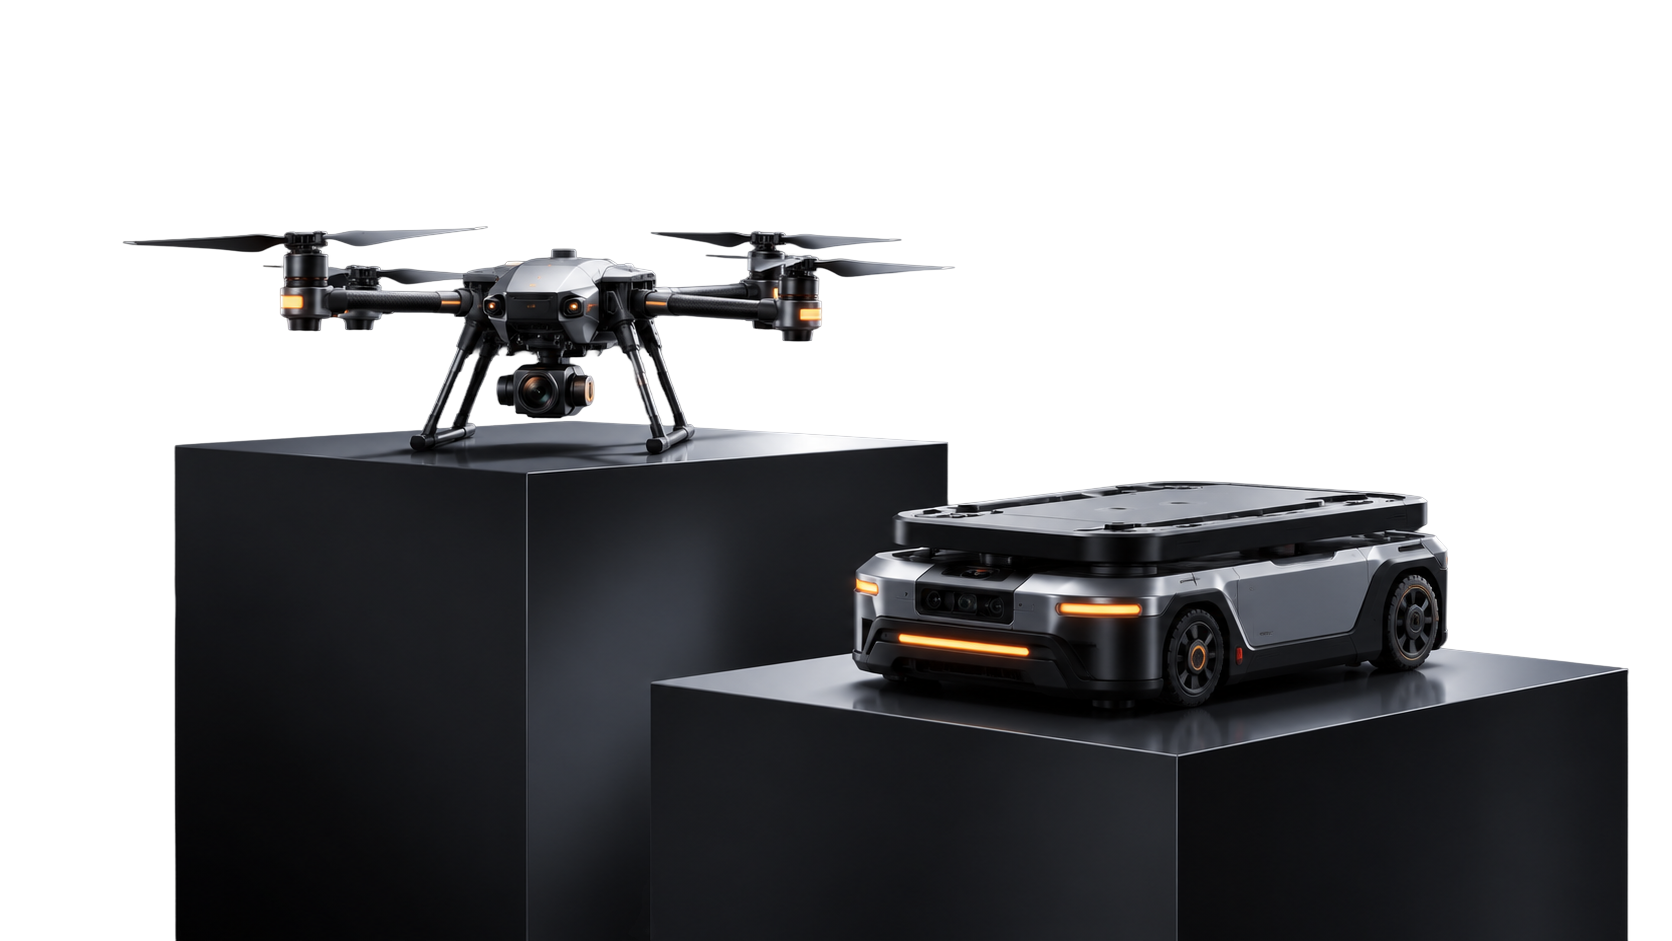
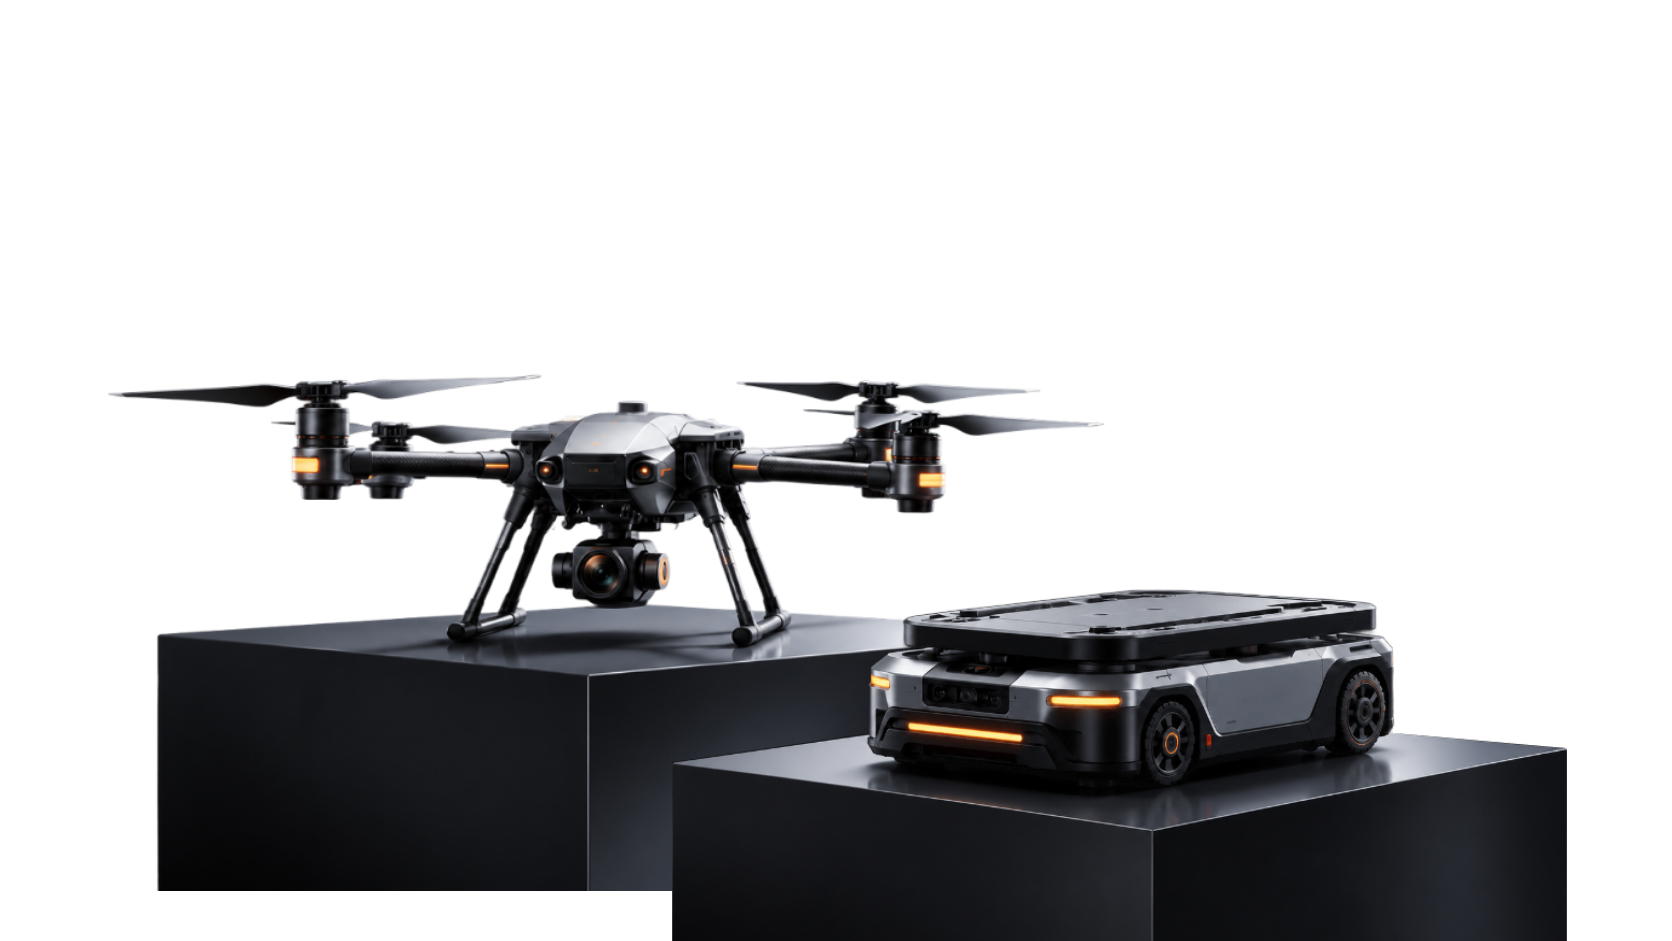
feat: sync latest 5-item navbar and robotics showcase components

Changed region(s): [[0.0622, 0.2465, 0.9952, 1.0], [0.2488, 0.2157, 0.2799, 0.2465]]

diff --git a/src/components/Navbar.jsx b/src/components/Navbar.jsx
@@ -1,7 +1,7 @@
 import React from 'react';
 import cavinLogo from '../assets/cavin_logo.svg';
 
-export default function Navbar({ onNavigate, onOpenContact }) {
+export default function Navbar({ activeSection, onNavigate, onOpenContact }) {
   return (
     <header className="sticky top-0 z-50 w-full bg-[#121418]/90 backdrop-blur-md border-b border-white/[0.04] transition-all duration-300">
       <div className="max-w-[1920px] mx-auto px-6 sm:px-12 lg:px-[160px] h-[88px] lg:h-[100px] flex items-center justify-between">
@@ -14,22 +14,66 @@ export default function Navbar({ onNavigate, onOpenContact }) {
           />
         </a>
 
-        {/* Center Nav Links - Hover-only highlight */}
-        <nav className="flex items-center gap-8 sm:gap-12 lg:gap-[60px]">
+        {/* Center Nav Links */}
+        <nav className="flex items-center gap-5 sm:gap-8 lg:gap-10 xl:gap-12">
           <button
             onClick={() => onNavigate('drone')}
-            className="group relative py-1 font-space text-[16px] lg:text-[18px] leading-[23px] font-normal text-[#A9A9A9] hover:text-[#EC8922] transition-colors duration-200 cursor-pointer"
+            className={`group relative py-1 font-space text-[14px] sm:text-[16px] lg:text-[18px] leading-[23px] font-normal transition-colors duration-200 cursor-pointer whitespace-nowrap ${
+              activeSection === 'drone' ? 'text-[#EC8922]' : 'text-[#A9A9A9] hover:text-[#EC8922]'
+            }`}
           >
             Drone
-            <span className="absolute bottom-0 left-0 w-0 h-[0.6px] bg-[#EC8922] transition-all duration-300 group-hover:w-full" />
+            <span className={`absolute bottom-0 left-0 h-[0.6px] bg-[#EC8922] transition-all duration-300 ${
+              activeSection === 'drone' ? 'w-full' : 'w-0 group-hover:w-full'
+            }`} />
+          </button>
+
+          <button
+            onClick={() => onNavigate('drone-projects')}
+            className={`group relative py-1 font-space text-[14px] sm:text-[16px] lg:text-[18px] leading-[23px] font-normal transition-colors duration-200 cursor-pointer whitespace-nowrap ${
+              activeSection === 'drone-projects' ? 'text-[#EC8922]' : 'text-[#A9A9A9] hover:text-[#EC8922]'
+            }`}
+          >
+            Drone Projects
+            <span className={`absolute bottom-0 left-0 h-[0.6px] bg-[#EC8922] transition-all duration-300 ${
+              activeSection === 'drone-projects' ? 'w-full' : 'w-0 group-hover:w-full'
+            }`} />
           </button>
 
           <button
             onClick={() => onNavigate('amr')}
-            className="group relative py-1 font-space text-[16px] lg:text-[18px] leading-[23px] font-normal text-[#A9A9A9] hover:text-[#EC8922] transition-colors duration-200 cursor-pointer"
+            className={`group relative py-1 font-space text-[14px] sm:text-[16px] lg:text-[18px] leading-[23px] font-normal transition-colors duration-200 cursor-pointer whitespace-nowrap ${
+              activeSection === 'amr' ? 'text-[#EC8922]' : 'text-[#A9A9A9] hover:text-[#EC8922]'
+            }`}
           >
             AMR
-            <span className="absolute bottom-0 left-0 w-0 h-[0.6px] bg-[#EC8922] transition-all duration-300 group-hover:w-full" />
+            <span className={`absolute bottom-0 left-0 h-[0.6px] bg-[#EC8922] transition-all duration-300 ${
+              activeSection === 'amr' ? 'w-full' : 'w-0 group-hover:w-full'
+            }`} />
+          </button>
+
+          <button
+            onClick={() => onNavigate('amr-projects')}
+            className={`group relative py-1 font-space text-[14px] sm:text-[16px] lg:text-[18px] leading-[23px] font-normal transition-colors duration-200 cursor-pointer whitespace-nowrap ${
+              activeSection === 'amr-projects' ? 'text-[#EC8922]' : 'text-[#A9A9A9] hover:text-[#EC8922]'
+            }`}
+          >
+            AMR Projects
+            <span className={`absolute bottom-0 left-0 h-[0.6px] bg-[#EC8922] transition-all duration-300 ${
+              activeSection === 'amr-projects' ? 'w-full' : 'w-0 group-hover:w-full'
+            }`} />
+          </button>
+
+          <button
+            onClick={() => onNavigate('footer')}
+            className={`group relative py-1 font-space text-[14px] sm:text-[16px] lg:text-[18px] leading-[23px] font-normal transition-colors duration-200 cursor-pointer whitespace-nowrap ${
+              activeSection === 'footer' ? 'text-[#EC8922]' : 'text-[#A9A9A9] hover:text-[#EC8922]'
+            }`}
+          >
+            Footer
+            <span className={`absolute bottom-0 left-0 h-[0.6px] bg-[#EC8922] transition-all duration-300 ${
+              activeSection === 'footer' ? 'w-full' : 'w-0 group-hover:w-full'
+            }`} />
           </button>
         </nav>
 

diff --git a/src/components/Hero.jsx b/src/components/Hero.jsx
@@ -1,5 +1,6 @@
 import React from 'react';
-import heroPedestal from '../assets/hero_pedestal.png';
+import heroDrone from '../assets/hero_drone.png';
+import heroAmr from '../assets/hero_amr.png';
 
 export default function Hero() {
   return (
@@ -26,21 +27,37 @@ export default function Hero() {
 
         {/* Hero Visual Showcase + Mission Statement Grid - Anchored Flush to Bottom */}
         <div className="relative grid grid-cols-1 lg:grid-cols-12 gap-6 xl:gap-10 items-end mt-2">
-          {/* 3D Pedestal Drone & AMR Image - Enlarged with bottom offset to eliminate gap when floating */}
+          {/* 3D Pedestal Drone & AMR Interactive Showcase */}
           <div className="lg:col-span-8 relative flex justify-center lg:justify-start items-end self-end">
-            <div className="relative w-full max-w-6xl xl:max-w-[1140px] group flex items-end animate-float -mb-6 lg:-mb-8 origin-bottom">
-              <img
-                src={heroPedestal}
-                alt="Autonomous Drone and AMR on high-tech pedestals"
-                className="w-full h-auto object-contain object-bottom drop-shadow-[0_20px_50px_rgba(0,0,0,0.9)] transition-transform duration-700 hover:scale-[1.02] block scale-[1.05] lg:scale-[1.08] origin-bottom"
-              />
+            <div className="relative w-full max-w-6xl xl:max-w-[1140px] aspect-[1672/1020] -mb-8 lg:-mb-12 origin-bottom scale-[1.05] lg:scale-[1.08] pointer-events-none">
+              {/* Drone Layer (Floats First with extended pedestal) */}
+              <div 
+                className="absolute inset-0 w-full h-full z-10 origin-bottom animate-float-drone pointer-events-auto transition-transform duration-700 hover:scale-[1.02]"
+              >
+                <img
+                  src={heroDrone}
+                  alt="Autonomous Drone on pedestal"
+                  className="w-full h-full object-contain object-bottom drop-shadow-[0_20px_50px_rgba(0,0,0,0.9)] block select-none"
+                />
+              </div>
+
+              {/* AMR Layer (Floats Second with extended pedestal) */}
+              <div 
+                className="absolute inset-0 w-full h-full z-20 origin-bottom animate-float-amr pointer-events-auto transition-transform duration-700 hover:scale-[1.02]"
+              >
+                <img
+                  src={heroAmr}
+                  alt="Autonomous Mobile Robot (AMR) on pedestal"
+                  className="w-full h-full object-contain object-bottom drop-shadow-[0_20px_50px_rgba(0,0,0,0.9)] block select-none"
+                />
+              </div>
             </div>
           </div>
 
           {/* Right Column Mission Statement (26:33) - Space Grotesk Regular 20px, line-height 28px, color #A9A9A9, max-width 556px, top-aligned with Drone */}
           <div className="lg:col-span-4 flex flex-col justify-start items-end self-start pt-4 sm:pt-6 lg:pt-8 xl:pt-10 xl:pl-4">
             <p className="font-space font-normal text-right text-[16px] sm:text-[18px] xl:text-[20px] leading-[26px] xl:leading-[28px] text-[#A9A9A9] max-w-[556px]">
-              We build intelligent drones and autonomous mobile robots that secure, survey, and support your most critical operations, putting real-time intelligence in front of leadership 24/7
+              We tinker intelligent drones and autonomous mobile robots that secure, survey, and support your most critical operations, putting real-time intelligence in front of leadership 24/7
             </p>
           </div>
         </div>

diff --git a/src/components/DroneOutcomes.jsx b/src/components/DroneOutcomes.jsx
@@ -1,8 +1,8 @@
 import React from 'react';
 import droneOutcomeDesign from '../assets/drone_outcome_design.jpg';
-import droneOutcomeLqr from '../assets/drone_outcome_lqr.png';
+import droneOutcomeAds from '../assets/drone_outcome_ads.png';
 import droneOutcomeTethered from '../assets/drone_outcome_tethered.jpg';
-import droneOutcomeTuning from '../assets/drone_outcome_tuning.png';
+import droneOutcomeLqr from '../assets/drone_outcome_lqr.png';
 import droneOutcomeLidar from '../assets/drone_outcome_lidar.jpg';
 import droneOutcomeFirefighting from '../assets/drone_outcome_firefighting.png';
 
@@ -19,10 +19,10 @@ export default function DroneOutcomes() {
       ],
     },
     {
-      title: 'LQR',
-      image: droneOutcomeLqr,
+      title: 'ADS DISPLAY DRONE',
+      image: droneOutcomeAds,
       imageFit: 'object-cover',
-      description: 'LQR control enables drones to maintain precise, stable flight by continuously optimizing movement, reducing disturbances, and improving responsiveness for safer, smoother, and more reliable autonomous operations.',
+      description: 'Advertising display drones transform the sky into a dynamic digital canvas, delivering high-visibility LED campaigns, branded messages, and immersive aerial experiences that capture attention across large audiences.',
       badges: [
         { label: 'STATUS', value: 'Research Stage', highlight: true },
         { label: 'PHASE', value: 'Phase 2', highlight: false },
@@ -40,8 +40,9 @@ export default function DroneOutcomes() {
       ],
     },
     {
-      title: 'DRONE TUNNING',
-      image: droneOutcomeTuning,
+      title: 'DRONE TUNING',
+      image: droneOutcomeLqr,
+      imageFit: 'object-cover',
       description: 'Drone tuning optimizes flight controllers, motors, sensors, and response parameters to improve stability, precision, responsiveness, and efficiency, ensuring smoother performance across different payloads, environments, and mission requirements.',
       badges: [
         { label: 'STATUS', value: 'Research Stage', highlight: true },
@@ -72,7 +73,7 @@ export default function DroneOutcomes() {
   ];
 
   return (
-    <section className="relative w-full py-16 sm:py-20 lg:py-[90px] overflow-hidden">
+    <section id="drone-projects" className="relative w-full py-16 sm:py-20 lg:py-[90px] overflow-hidden">
       <div className="max-w-[1920px] mx-auto px-6 sm:px-12 lg:px-[160px]">
         {/* Section Header Grid */}
         <div className="flex flex-col lg:flex-row lg:items-end justify-between gap-6 mb-16">

diff --git a/src/components/AMRScope.jsx b/src/components/AMRScope.jsx
@@ -13,7 +13,7 @@ export default function AMRScope() {
       heading: 'Site Surveillance',
       description: 'Self-navigating robots patrol floors, warehouses, and restricted zones - spotting unattended objects, badge anomalies, and after-hours movement.',
       callout: 'Every alert reaches your team with live video, before an incident becomes a loss.',
-      image: amrScopeBg,
+      image: amrScopeIndoorAssistant,
       imagePosition: 'object-cover object-center',
     },
     {
@@ -22,7 +22,7 @@ export default function AMRScope() {
       heading: 'Indoor AI Assistance',
       description: 'A mobile AI companion that welcomes visitors, manages check-in, guides guests, and answers facility questions instantly.',
       callout: 'Professional, multilingual assistance available every hour of every day.',
-      image: amrScopeIndoorAssistant,
+      image: amrScopeBg,
       imagePosition: 'object-cover object-center',
     },
   ];

diff --git a/src/index.css b/src/index.css
@@ -82,8 +82,8 @@ body {
   box-shadow: 0 0 30px rgba(236, 137, 34, 0.08);
 }
 
-/* Floating animation for Hero image */
-@keyframes float {
+/* Floating animation for Hero Drone & AMR (Silky smooth harmonic wave: Drone floats first, AMR rises as Drone begins descent) */
+@keyframes float-smooth {
   0%, 100% {
     transform: translateY(0px);
   }
@@ -92,9 +92,19 @@ body {
   }
 }
 
-.animate-float {
-  animation: float 5s ease-in-out infinite;
+.animate-float-drone {
+  animation: float-smooth 5s ease-in-out infinite;
   will-change: transform;
+  backface-visibility: hidden;
+  -webkit-backface-visibility: hidden;
+}
+
+.animate-float-amr {
+  animation: float-smooth 5s ease-in-out infinite;
+  animation-delay: 2.5s;
+  will-change: transform;
+  backface-visibility: hidden;
+  -webkit-backface-visibility: hidden;
 }
 
 /* Revolving border stroke animation */

diff --git a/src/App.jsx b/src/App.jsx
@@ -28,13 +28,17 @@ export default function App() {
   // Update active navbar indicator on scroll
   useEffect(() => {
     const handleScroll = () => {
-      const amrEl = document.getElementById('amr');
-      if (amrEl) {
-        const rect = amrEl.getBoundingClientRect();
-        if (rect.top <= 200) {
-          setActiveSection('amr');
-        } else {
-          setActiveSection('drone');
+      const sections = ['drone', 'drone-projects', 'amr', 'amr-projects', 'footer'];
+      const scrollPos = window.pageYOffset + 250;
+
+      for (let i = sections.length - 1; i >= 0; i--) {
+        const el = document.getElementById(sections[i]);
+        if (el) {
+          const top = el.offsetTop;
+          if (scrollPos >= top) {
+            setActiveSection(sections[i]);
+            break;
+          }
         }
       }
     };

diff --git a/src/components/Footer.jsx b/src/components/Footer.jsx
@@ -3,7 +3,7 @@ import cavinLogo from '../assets/cavin_logo.svg';
 
 export default function Footer() {
   return (
-    <footer className="relative w-full border-t border-white/[0.04] bg-[#0D0E10] overflow-hidden">
+    <footer id="footer" className="relative w-full border-t border-white/[0.04] bg-[#0D0E10] overflow-hidden">
       {/* Top Center Glow Ellipse (26:366) - w: 780px, h: 11px, fill: #D9D9D9, blur(140px) */}
       <div className="absolute top-0 left-1/2 -translate-x-1/2 w-[780px] h-[11px] bg-[#D9D9D9] blur-[140px] pointer-events-none opacity-40" />
 

diff --git a/src/components/AutomationModal.jsx b/src/components/AutomationModal.jsx
@@ -194,7 +194,7 @@ export default function AutomationModal({ isOpen, onClose }) {
               {/* Header Title */}
               <div>
                 <h2 id="automation-modal-title" className="font-orbitron font-bold text-2xl text-white tracking-wide">
-                  Let's Talk Automation
+                  Let's Talk
                 </h2>
                 <p className="font-space text-xs sm:text-sm text-[#7A7A85] mt-1 font-normal">
                   Connect with our robotics engineers to engineer your deployment.

diff --git a/src/components/AMROutcomes.jsx b/src/components/AMROutcomes.jsx
@@ -71,7 +71,7 @@ export default function AMROutcomes() {
   ];
 
   return (
-    <section className="relative w-full py-16 sm:py-20 lg:py-[90px] overflow-hidden">
+    <section id="amr-projects" className="relative w-full py-16 sm:py-20 lg:py-[90px] overflow-hidden">
       <div className="max-w-[1920px] mx-auto px-6 sm:px-12 lg:px-[160px]">
         {/* Section Header Grid */}
         <div className="flex flex-col lg:flex-row lg:items-end justify-between gap-6 mb-16">
